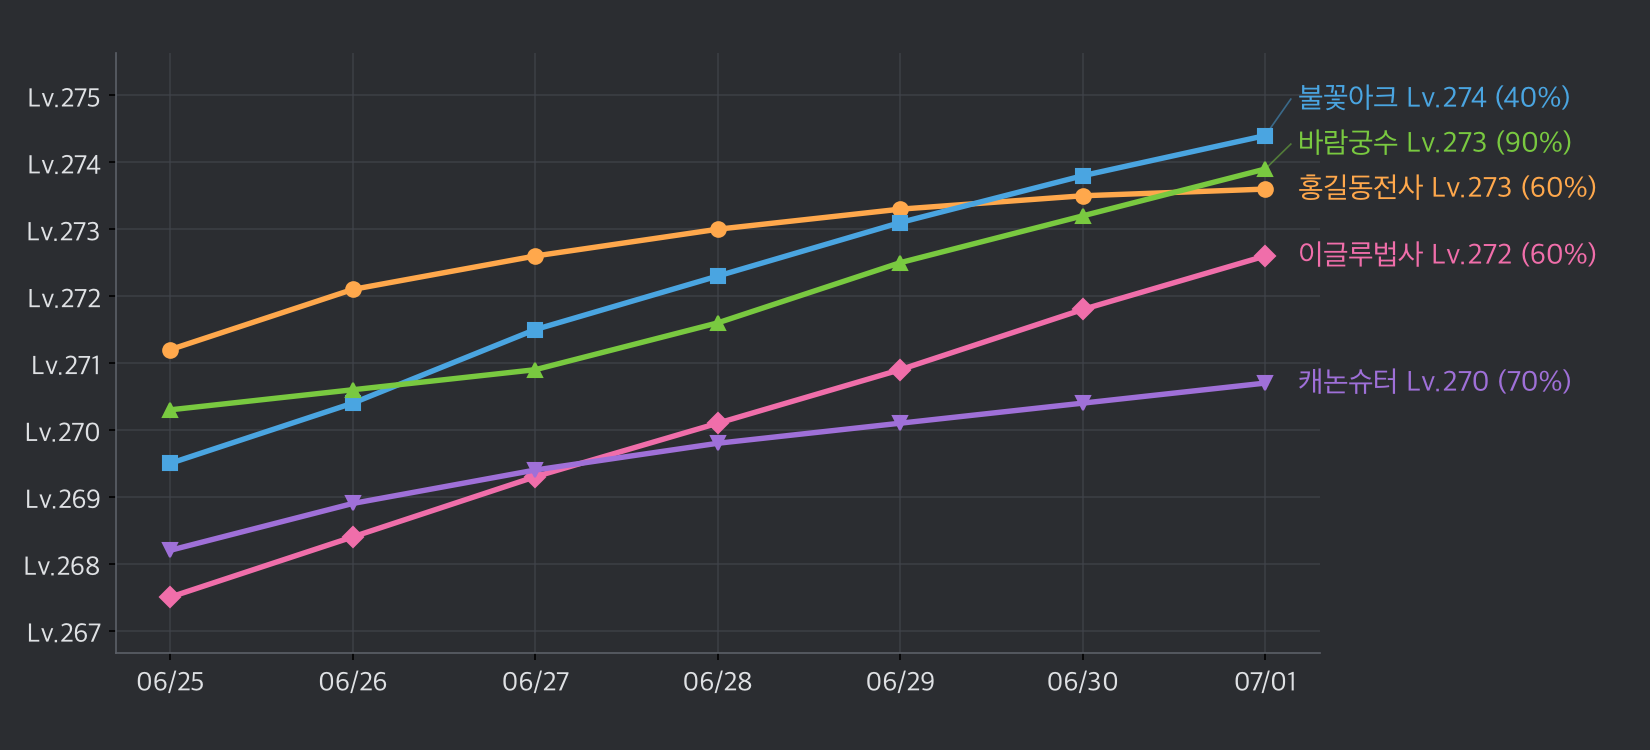
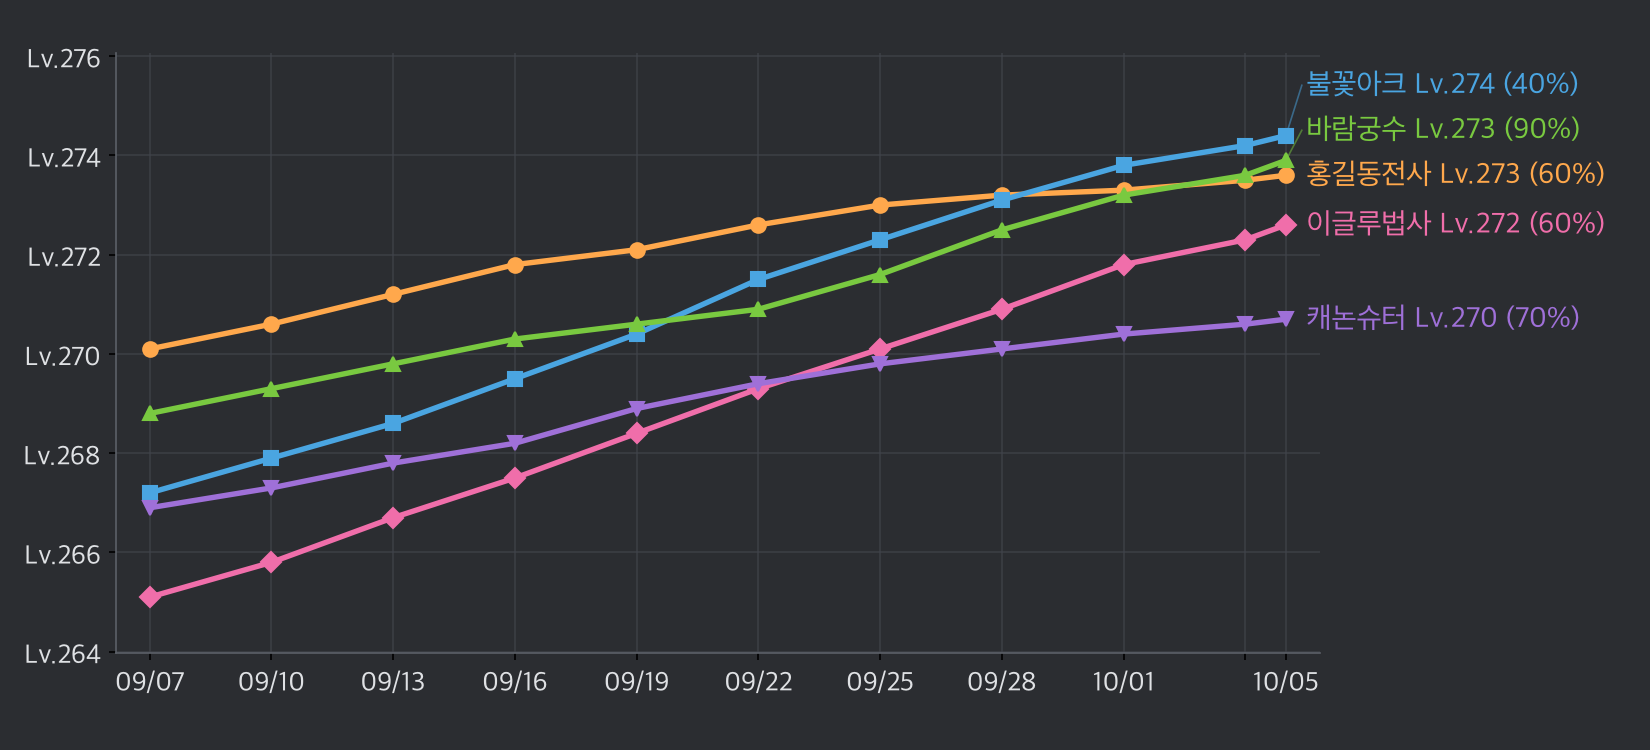
docs(site): 경험치 30일 추이 문구와 데모 샷 갱신 (#68)
* docs(site): 경험치 30일 추이·증가량 문구와 데모 샷 갱신

- commands.json·캡션·개인정보 용도에서 '7일' 표현 정리, 기간 옵션 안내
- exp.png 30일 샘플+증가량 재렌더, 튜토리얼 exp_main/exp_target 픽스처를 실데이터 30일(가명)로 재추출
- 튜토리얼 /경험치 칩에 기간 추가, 순위판·푸터에 증가량 반영

* docs(site): 경험치 증가량 표기 제외 반영 — 레벨만 표기

---------

diff --git a/site/components/commandSequenceScripts.tsx b/site/components/commandSequenceScripts.tsx
@@ -162,9 +162,9 @@ function SchedulerEmbed() {
 
 /* ---- 공통 칩 목록(느린 run 은 항상 전체 파라미터를 보여준다 — 대본 §3) ---- */
 
-/** /경험치 파라미터 전체(유저1~5·모드). 채울 것만 v·pick 을 덧입힌다. */
+/** /경험치 파라미터 전체(기간·유저1~5·모드). 채울 것만 v·pick 을 덧입힌다. */
 function expParams(overrides: Record<string, RunParam> = {}): RunParam[] {
-  return ['유저1', '유저2', '유저3', '유저4', '유저5', '모드'].map(
+  return ['기간', '유저1', '유저2', '유저3', '유저4', '유저5', '모드'].map(
     (p) => overrides[p] ?? { p },
   )
 }
@@ -191,11 +191,11 @@ export const S6_SCRIPT: Run[] = [
       <RankEmbed
         title="📈 경험치 리더보드"
         lines={[
-          { medal: '🥇', node: <RankLine nick="홍길동전사" lv="Lv.287 (95%)" /> },
-          { medal: '🥈', node: <RankLine nick="불꽃아크" lv="Lv.287 (55%)" /> },
-          { medal: '🥉', node: <RankLine nick="바람궁수" lv="Lv.285 (25%)" /> },
+          { medal: '🥇', node: <RankLine nick="홍길동전사" lv="Lv.291 (3%)" /> },
+          { medal: '🥈', node: <RankLine nick="불꽃아크" lv="Lv.290 (51%)" /> },
+          { medal: '🥉', node: <RankLine nick="바람궁수" lv="Lv.285 (12%)" /> },
         ]}
-        footer="기준: 오늘(07/04) 현재 · NEXON Open API"
+        footer="기준: 오늘(10/07) 현재 · NEXON Open API"
         run="exp_main"
         alt="/경험치 리더보드 그래프"
       />
@@ -237,9 +237,9 @@ export const S6_SCRIPT: Run[] = [
       <RankEmbed
         title="📈 경험치 리더보드"
         lines={[
-          { medal: '🥇', node: <RankLine nick="바람궁수" lv="Lv.285 (25%)" /> },
+          { medal: '🥇', node: <RankLine nick="바람궁수" lv="Lv.285 (12%)" /> },
         ]}
-        footer="기준: 오늘(07/04) 현재 · NEXON Open API"
+        footer="기준: 오늘(10/07) 현재 · NEXON Open API"
         run="exp_target"
         alt="/경험치 지정 유저 그래프"
       />

diff --git a/site/components/CommandGroup.tsx b/site/components/CommandGroup.tsx
@@ -44,7 +44,7 @@ function embedFor(name: string): { node: ReactNode; caption: string } | null {
     case '잠재':
       return { node: shot('potential.png', '잠재 이력 비교표 — 재설정·큐브·메소·등업'), caption: '/잠재 · 계정 전체 합산' }
     case '경험치':
-      return { node: shot('exp.png', '경험치 리더보드 그래프 — 최근 7일 레벨 추이'), caption: '/경험치 · 최근 7일 레벨 추이 그래프' }
+      return { node: shot('exp.png', '경험치 리더보드 그래프 — 최근 30일 레벨 추이'), caption: '/경험치 · 최근 30일 레벨 추이 그래프' }
     case '스케줄러':
       return { node: shot('scheduler.png', '스케줄러 숙제 카드 — 오늘 남은 숙제 체크리스트'), caption: '/스케줄러 · 본인만' }
     case '스케줄러알림':

diff --git a/site/scripts/render_demo_shots.py b/site/scripts/render_demo_shots.py
@@ -17,7 +17,7 @@ from __future__ import annotations
 import base64
 import json
 import sys
-from datetime import date, datetime, timedelta
+from datetime import date, datetime
 from pathlib import Path
 from typing import Any
 
@@ -36,6 +36,9 @@ from maple_mate.bot.table_image import (  # noqa: E402
     Highlight,
     NumGrid,
     render_table_image,
+)
+from maple_mate.leaderboard.service import (  # noqa: E402
+    sample_dates,
 )
 from maple_mate.scheduler.service import (  # noqa: E402
     CYCLE_DAILY,
@@ -60,18 +63,79 @@ def _icon(name: str) -> bytes:
 
 
 def build_exp() -> bytes:
-    """/경험치 선 그래프 — 5명 × 7일, 절대레벨(level + exp%/100).
+    """/경험치 선 그래프 — 5명 × 30일(3일 간격 샘플), 절대레벨(level + exp%/100).
 
-    성장 속도가 달라 선이 서로 겹쳤다 역전되도록 구성(불꽃아크·바람궁수가 홍길동전사를
-    후반 추월, 이글루법사가 캐논슈터를 초반 추월). 순위 경쟁의 재미를 보여준다.
+    봇과 같은 달력 앵커 샘플 날짜(sample_dates)를 쓴다. 성장 속도가 달라
+    선이 서로 겹쳤다 역전되도록 구성(불꽃아크·바람궁수가 홍길동전사를 후반 추월, 이글루법사가
+    캐논슈터를 초반 추월). 순위 경쟁의 재미를 보여준다.
     """
-    days = [date(2026, 6, 25) + timedelta(days=i) for i in range(7)]
+    days = sample_dates(date(2026, 10, 5), 30)  # 11점(09/07..10/05)
     tracks: dict[str, list[float]] = {
-        "홍길동전사": [271.20, 272.10, 272.60, 273.00, 273.30, 273.50, 273.60],
-        "불꽃아크": [269.50, 270.40, 271.50, 272.30, 273.10, 273.80, 274.40],
-        "바람궁수": [270.30, 270.60, 270.90, 271.60, 272.50, 273.20, 273.90],
-        "이글루법사": [267.50, 268.40, 269.30, 270.10, 270.90, 271.80, 272.60],
-        "캐논슈터": [268.20, 268.90, 269.40, 269.80, 270.10, 270.40, 270.70],
+        "홍길동전사": [
+            270.10,
+            270.60,
+            271.20,
+            271.80,
+            272.10,
+            272.60,
+            273.00,
+            273.20,
+            273.30,
+            273.50,
+            273.60,
+        ],
+        "불꽃아크": [
+            267.20,
+            267.90,
+            268.60,
+            269.50,
+            270.40,
+            271.50,
+            272.30,
+            273.10,
+            273.80,
+            274.20,
+            274.40,
+        ],
+        "바람궁수": [
+            268.80,
+            269.30,
+            269.80,
+            270.30,
+            270.60,
+            270.90,
+            271.60,
+            272.50,
+            273.20,
+            273.60,
+            273.90,
+        ],
+        "이글루법사": [
+            265.10,
+            265.80,
+            266.70,
+            267.50,
+            268.40,
+            269.30,
+            270.10,
+            270.90,
+            271.80,
+            272.30,
+            272.60,
+        ],
+        "캐논슈터": [
+            266.90,
+            267.30,
+            267.80,
+            268.20,
+            268.90,
+            269.40,
+            269.80,
+            270.10,
+            270.40,
+            270.60,
+            270.70,
+        ],
     }
     series = {
         nick: [(d, v) for d, v in zip(days, track)] for nick, track in tracks.items()
